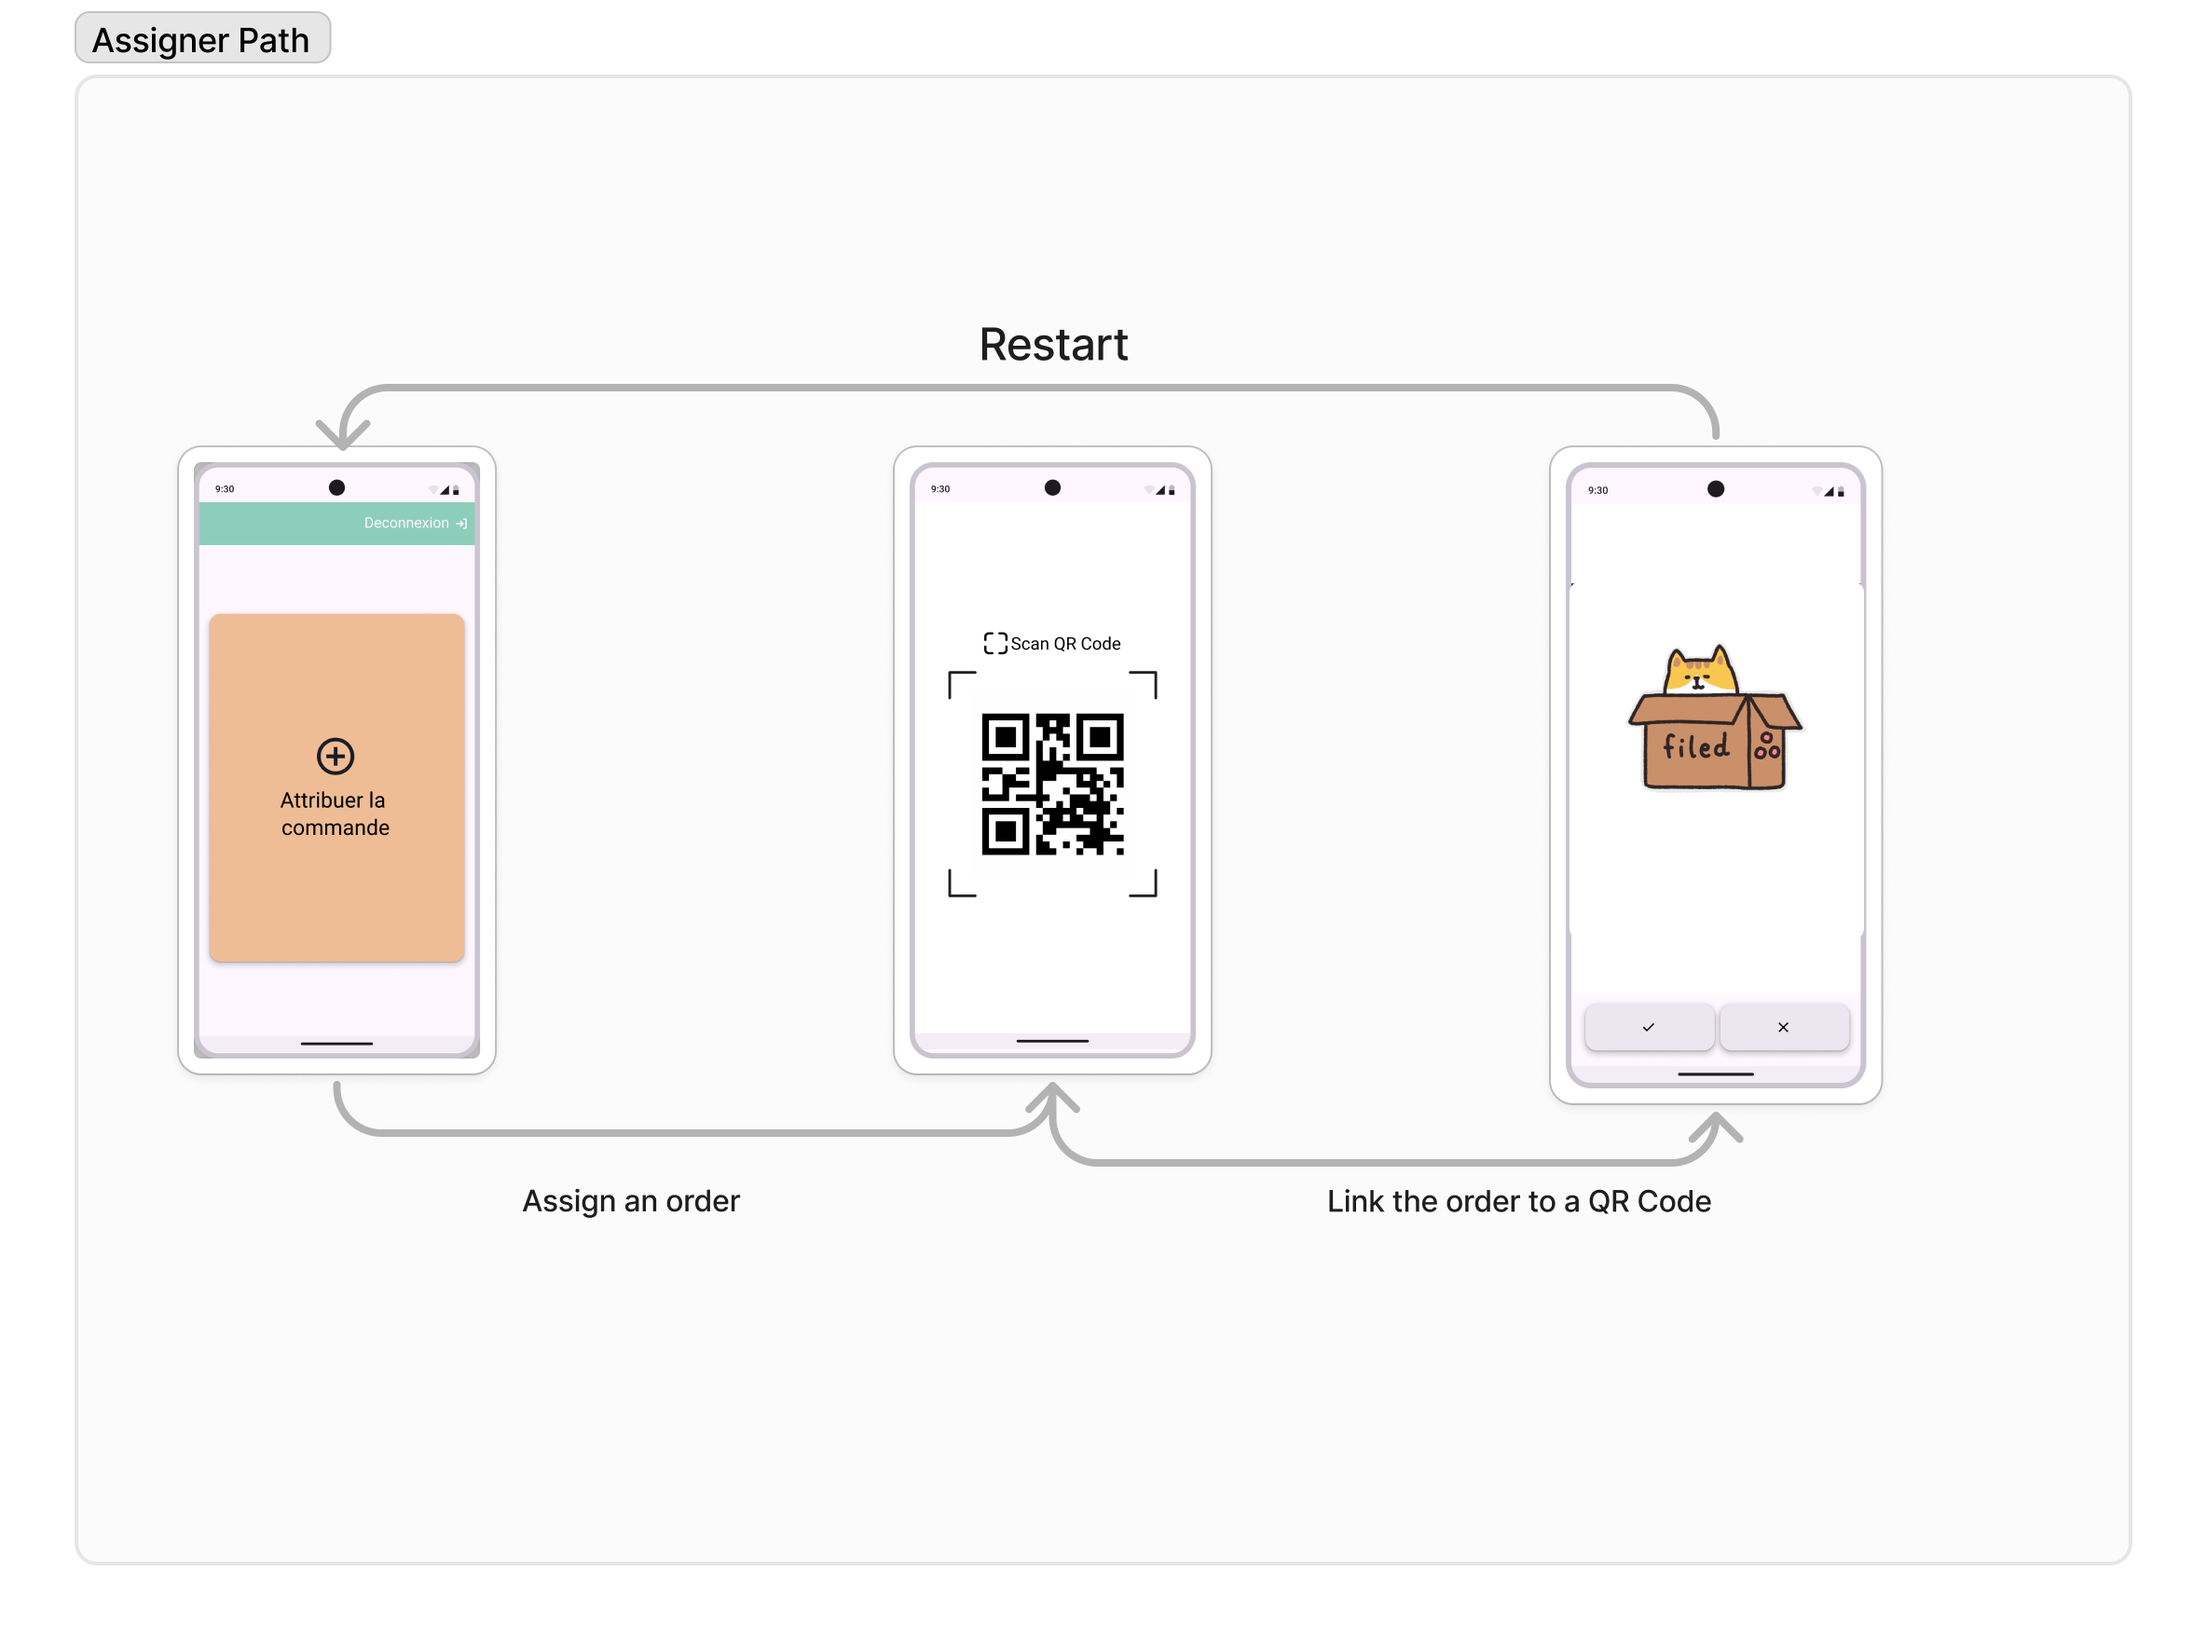
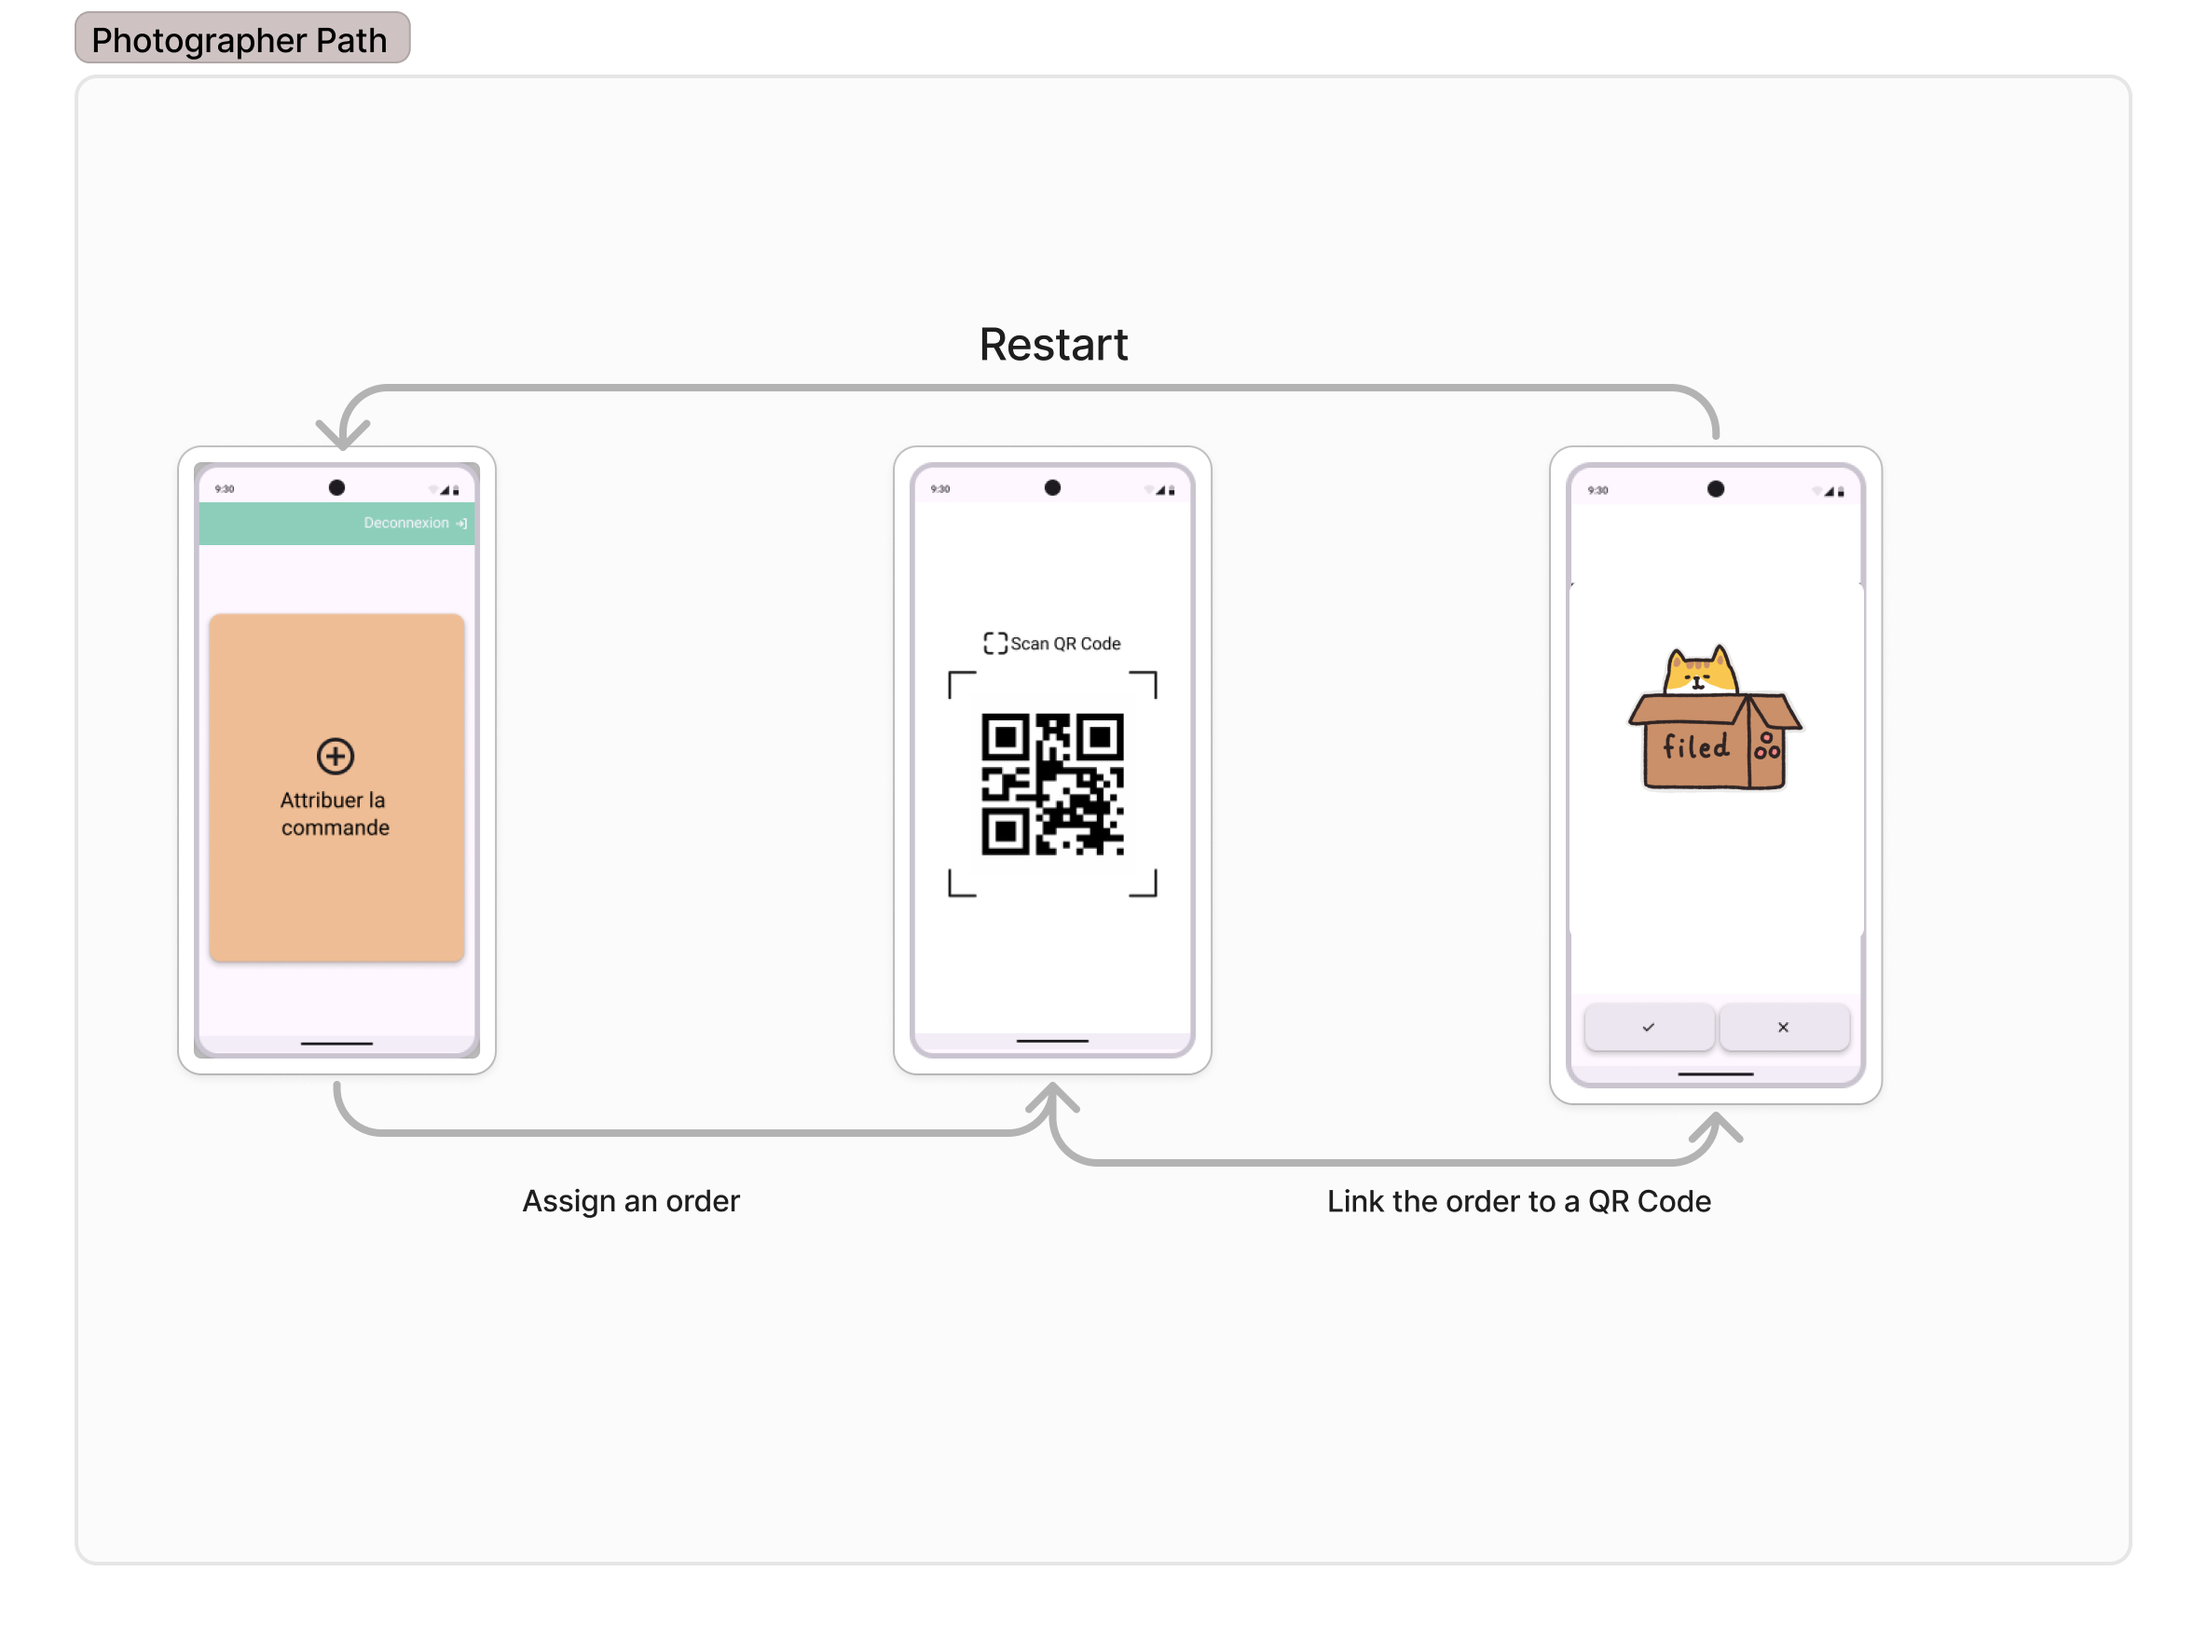
update hassanates.fr project page

Changed region(s): [[0.0312, 0.0, 0.1875, 0.0625], [0.4375, 0.4375, 0.5, 0.5312], [0.125, 0.4688, 0.1562, 0.5312]]

diff --git a/volunteer/hassanates.html b/volunteer/hassanates.html
@@ -102,7 +102,7 @@
 						As the Principal UX Designer, I worked on this project from October to January 2025. This application, developed for a nonprofit organization, aims to streamline the process of order management and tracking. It comprises both a mobile and a web application, each tailored to specific user roles and needs. 
 					</p>
 					<p>
-						The mobile application is designed for <strong>Order Assigners</strong> and <strong>Order Preparers</strong>, while the web application targets <strong>Managers</strong>. The project presented unique challenges, including limited development time and the need to accommodate multiple user roles with distinct functionalities.
+						The mobile application is designed for <strong>Order Photographer</strong>, while the web application targets <strong>Managers</strong>. The project presented unique challenges, including limited development time and the need to accommodate multiple user roles with distinct functionalities.
 					</p>
 					<p>
 						Development is currently underway, with the applications set to launch in June 2025. Once deployed, the system will enhance efficiency and transparency in order management for the organization and its beneficiaries.
@@ -111,7 +111,7 @@
 					<section id="problem-statement">
 						<h2>Problem Statement</h2>
 						<p>
-							Order management and tracking often rely on manual processes, leading to inefficiencies and errors. The goal of this project was to digitize and centralize these processes, providing a seamless experience for Order Assigners, Preparers, Managers, and end-users. By doing so, we aim to improve order accuracy, save time, and provide better visibility to all stakeholders.
+							Order management and tracking often rely on manual processes, leading to inefficiencies and errors. The goal of this project was to digitize and centralize these processes, providing a seamless experience for Photographer and Managers. By doing so, we aim to improve order accuracy, save time, and provide better visibility to all stakeholders.
 
 							Edit (Jan. 2025) : A modification has been made due to change in the field. We have now only 2 roles : The Photographer and the manager + a new process to manage the orders
 							We also decided, to keep a coherence between our sponsorship to cancel the end user part. They will receive a email for the follow-up until the order is completely processed
@@ -270,8 +270,8 @@
 		
 						<!-- User Assigner Path -->
 						<div class="user-path">
-							<h3>Assigner Path</h3>
-							<img src="/assets/images/assigner-user-path.jpg" alt="User Assigner Path">
+							<h3>Photographer Path</h3>
+							<img src="/assets/images/assigner-user-path.jpg" alt="User Photographer Path">
 							<p>This diagram illustrates the journey of the Photographer using the features for his path.</p>
 						</div>
 		
@@ -285,11 +285,11 @@
 
 					<h2 id="solution">Solution & Features</h2>
 					<p>
-						The solution includes a mobile application for Assigners and Preparers and a web application for Managers. The features are tailored to each user role:
+						The solution includes a mobile application for Photographer and a web application for Managers. The features are tailored to each user role:
 					</p>
 					<ul>
-						<li>✅ <strong>Order Assignment:</strong> Assigners can scan QR codes, upload order photos, and validate assignments.</li>
-						<li>✅ <strong>Order Preparation:</strong> Preparers can update order statuses by scanning QR codes.</li>
+						<li>✅ <strong>Order Assignment:</strong> Photographer can scan QR codes, upload order photos, and validate assignments.</li>
+						<li>✅ <strong>Order Preparation:</strong> Photographer can also update order statuses by scanning QR codes.</li>
 						<li>✅ <strong>Centralized Dashboard:</strong> Managers can view all orders, generate QR codes, and manage user accounts.</li>					</ul>
 					<p>
 						This system ensures efficiency, transparency, and scalability for all stakeholders involved.
@@ -305,7 +305,7 @@
 								all type of users.</p>
 							<!-- Link the Figma prototype -->
 							<div class="container about-content2">
-								<a href="https://www.figma.com/proto/xiUz3qaqyhWWgQZeATjMAp/Maquette-App-%26-Web---hassanates.fr?page-id=96%3A3409&node-id=96-4436&p=f&viewport=135%2C329%2C0.09&t=qaRm3QWLYKvKhsS2-1&scaling=min-zoom&content-scaling=fixed&starting-point-node-id=172%3A4255&show-proto-sidebar=1" target="_blank" class="btn-about-btn" background="black " color="white" style="background: black;">Photographer path's Figma prototype< i class="fa-brands fa-figma" style="font-size:18px; margin-left:2px; color:white"></i></a>
+								<a href="https://www.figma.com/proto/xiUz3qaqyhWWgQZeATjMAp/Maquette-App-%26-Web---hassanates.fr?page-id=96%3A3409&node-id=96-4436&p=f&viewport=135%2C329%2C0.09&t=qaRm3QWLYKvKhsS2-1&scaling=min-zoom&content-scaling=fixed&starting-point-node-id=172%3A4255&show-proto-sidebar=1" target="_blank" class="btn-about-btn" background="black " color="white" style="background: black;">Photographer path's Figma prototype <i class="fa-brands fa-figma" style="font-size:18px; margin-left:2px; color:white"></i></a>
 							</div>
 
 							<div class="container about-content2">
@@ -327,24 +327,14 @@
 								 <!-- Vidéo 1 -->
 								 <div class="carousel2-item">
 									<video class="persona-video2" controls>
-										<source src="/assets/videos/hassanates-End-User.mp4" type="video/mp4">
-										Your browser does not support the video tag.
-									</video>
-									<div class="persona-details2">
-										<h4>End User</h4>
-									</div>
-								</div>
-								<!-- Vidéo 2 -->
-								<div class="carousel2-item">
-									<video class="persona-video2" controls>
 										<source src="/assets/videos/hassanates.fr-Assigner-Preparer.mp4" type="video/mp4">
 										Your browser does not support the video tag.
 									</video>
 									<div class="persona-details2">
-										<h4>Assigner&Preparer</h4>
+										<h4>Photographer</h4>
 									</div>
 								</div>
-								<!-- Vidéo 3 -->
+								<!-- Vidéo 2 -->
 								<div class="carousel2-item">
 									<video class="persona-video2" controls>
 										<source src="/assets/videos/hassanates.fr-Admin.mp4" type="video/mp4">
@@ -364,7 +354,6 @@
 								<!-- Points pour le carousel -->
 								<div class="dot" onclick="moveToSlide2(0)"></div>
 								<div class="dot" onclick="moveToSlide2(1)"></div>
-								<div class="dot" onclick="moveToSlide2(2)"></div>
 							</div>
 							
 							<!-- Vignettes des personas -->
@@ -374,9 +363,6 @@
 								</div>
 								<div class="preview-item2" onclick="moveToSlide2(1)">
 									<img class="preview-image2" src="/assets/images/hassanates - v2.png" alt="Video 2" />
-								</div>
-								<div class="preview-item2" onclick="moveToSlide2(2)">
-									<img class="preview-image2" src="/assets/images/hassanates - v3.png" alt="Video 3" />
 								</div>
 							</div>
 						</div>
@@ -391,13 +377,12 @@
 						Early tests involved real-world scenarios with each user group:
 					</p>
 					<ul>
-						<li><strong>✅ Assigners and Preparers:</strong> Tested the mobile application for order scanning and status updates.</li>
+						<li><strong>✅ Photographer:</strong> Tested the mobile application for order scanning and status updates.</li>
 						<li><strong>✅ Managers:</strong> Evaluated the web dashboard for ease of use and comprehensiveness.</li>
-						<li><strong>✅ End-users:</strong> Reviewed the tracking interface for clarity and accessibility.</li>
 					</ul>
 					<h3>User Feedback</h3>
 					<p>
-						Users appreciated the streamlined workflows and intuitive design. Assigners and Preparers found the mobile app easy to use, while Managers praised the centralized features for user and order management.
+						Photographer found the mobile app easy to use, while Managers praised the centralized features for user and order management.
 					</p>
 					<h3>Challenges</h3>
 					<p>
@@ -410,7 +395,7 @@
 					<h3>Impact</h3>
 					<ul>
 						<li>✅ Improved efficiency in order assignment and preparation.</li>
-						<li>✅ Enhanced transparency for end-users tracking their orders.</li>
+						<li>✅ Enhanced transparency for end-users tracking their orders with the Photographer work.</li>
 						<li>✅ Simplified management processes for Managers.</li>
 					</ul>
 					<h2 id="tools">Tools Used</h2>
